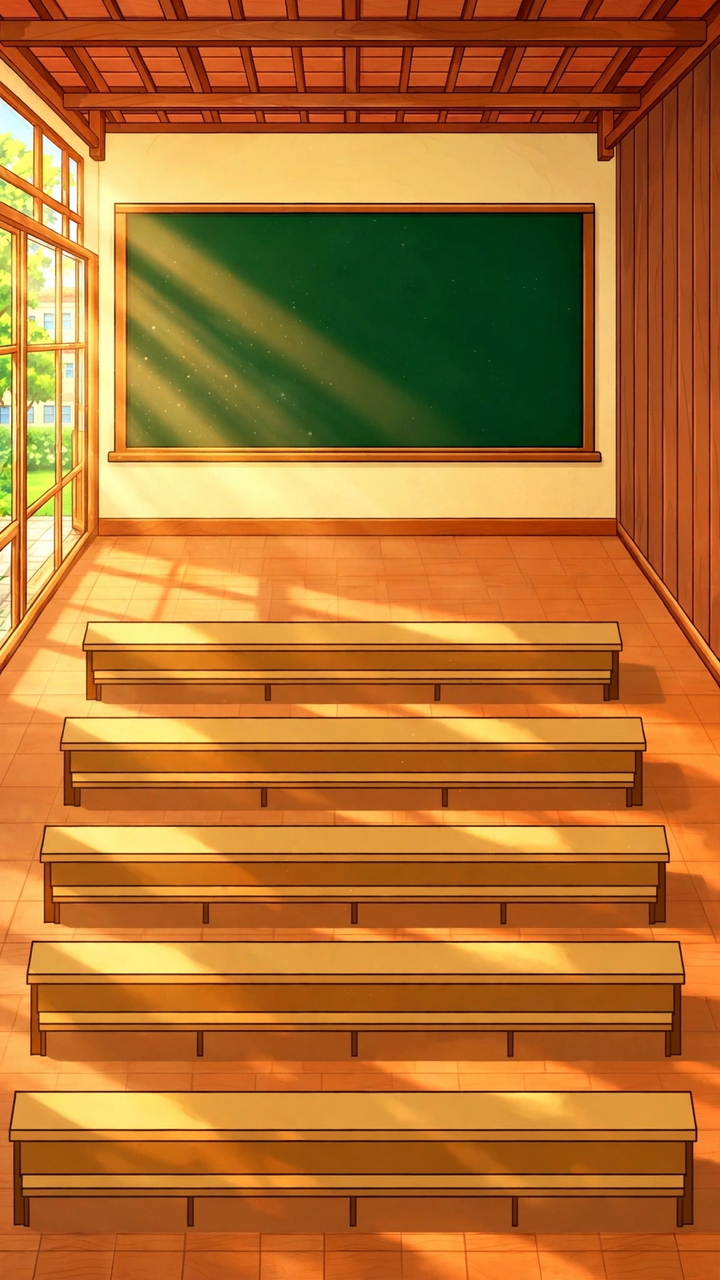
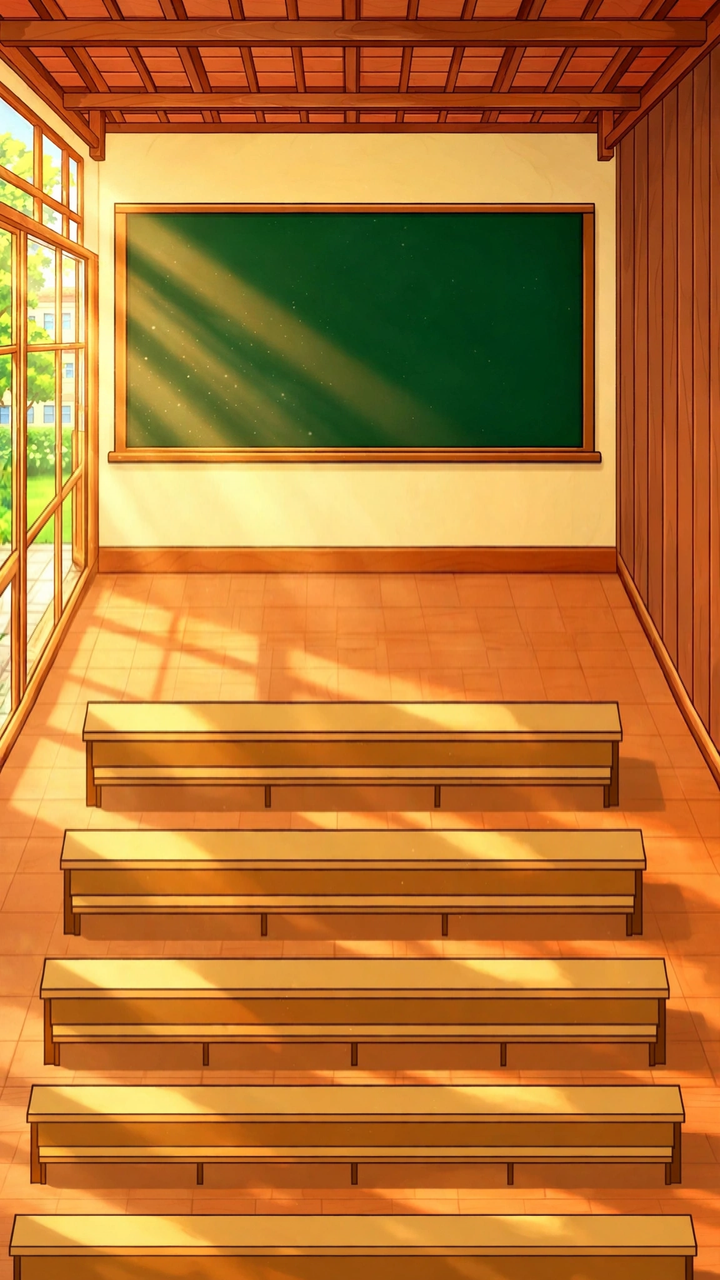
Lop hoc chu (LH-V3): nen v18 doi ban xuong khop anh mau + goi y dai khong bi cat

diff --git a/Games/lop-hoc-chu/index.html b/Games/lop-hoc-chu/index.html
@@ -80,8 +80,11 @@
     font-size: 23px; line-height: 1.25; color: #fff; text-align: center;
     margin-top: 32px; text-shadow: 0 2px 4px rgba(0,0,0,.55);
     /* Bảng v17 rộng hơn (x 12-88%) nên chừa 110px bên trái để câu đố
-       không chạy ra sau đầu cô Ngân (đầu cô tới ~x 31%). */
-    padding: 0 10px 0 110px;
+       không chạy ra sau đầu cô Ngân (đầu cô tới ~x 31%). Chừa thêm
+       70px bên phải: mép phải bảng (x > 565px stage) nằm DƯỚI cột phải,
+       gợi ý dài (> ~33 chữ, 31/120 câu) bị cột phải cắt mất đuôi chữ
+       (vd "Trang phục truyền thống của Việt Nam" mất chữ "m"). */
+    padding: 0 70px 0 110px;
   }
   #qScrambled { text-align: center; margin-top: 12px; }
   .tile {

diff --git a/Games/lop-hoc-chu/BG-LAYOUT.md b/Games/lop-hoc-chu/BG-LAYOUT.md
@@ -1,18 +1,18 @@
-# BG-LAYOUT — Lớp học chữ (v17: nền tia nắng + bảng vẽ sẵn, học sinh mới, tự canh ghế, M5 Oẳn tù tì, motto mới)
+# BG-LAYOUT — Lớp học chữ (v18: nền dời bàn xuống khớp ảnh mẫu, bảng break khớp ảnh, gợi ý dài không bị cắt)
 
 Khung hình: **720 × 1280** (dọc 9:16), gốc tọa độ tính theo % chiều rộng /
 chiều cao của `#stage`. Mọi vị trí dưới đây là % của stage, không phải px,
 để OBS co giãn vẫn đúng.
 
-Nền là **ảnh vẽ kín `img/lop-hoc-bg.png`** (720×1280, bản v17, thay bản v16
-từ 2026-11-06 tối): trần xà gỗ, cửa sổ **trái** có cây xanh + **tia nắng
-vàng xiên vào lớp** (god rays, hạt bụi vàng, vùng sáng ấm trên sàn và mặt
-bàn gần cửa sổ), tường gỗ **phải**, sàn gỗ cam, **bảng xanh lá VẼ SẴN
-trong ảnh** (khung gỗ, x ~12–88%, y ~15,5–32,5%), **5 dải bàn dài
-trống**, không có đèn treo, không còn đám đông đứng 2 bên bảng, không
-có chữ. Các khung chữ game (bảng hiệu, banner, bảng, panel) đè lên đúng
-vị trí đã vẽ trong ảnh nền. CSS gradient dưới ảnh nền chỉ là dự phòng
-nếu ảnh lỗi.
+Nền là **ảnh vẽ kín `img/lop-hoc-bg.png`** (720×1280, bản v18, warp
+dọc từ v17 tối 2026-11-06 — xem Ghi chú v18): trần xà gỗ, cửa sổ
+**trái** có cây xanh + **tia nắng vàng xiên vào lớp** (god rays, hạt
+bụi vàng, vùng sáng ấm trên sàn và mặt bàn gần cửa sổ), tường gỗ
+**phải**, sàn gỗ cam, **bảng xanh lá VẼ SẴN trong ảnh** (khung gỗ,
+x ~12–88%, y ~15,5–32,5%), **5 dải bàn dài trống**, không có đèn treo,
+không còn đám đông đứng 2 bên bảng, không có chữ. Các khung chữ game
+(bảng hiệu, banner, bảng, panel) đè lên đúng vị trí đã vẽ trong ảnh
+nền. CSS gradient dưới ảnh nền chỉ là dự phòng nếu ảnh lỗi.
 
 > Ghi chú v8–v10 (đã thử rồi bỏ): từng vẽ lại nền sảnh trống + ghép bàn
 > (img/desk.png) + ghế (img/chair.png) riêng, 10 bàn 2 cột × 5 hàng.
@@ -28,15 +28,21 @@ nếu ảnh lỗi.
 > `workspace/lop-hoc-chu-polish/src/lop-hoc-bg-v16.png`, bản v15 tại
 > `.../src/lop-hoc-bg-v15.png`.
 >
-> Ghi chú v17 (2026-11-06 tối): user chốt **bỏ vụ cắt mép bàn** (dải
-> mặt bàn `.deskstrip` gây lỗi liên tục: cắt tóc hàng sau, cắt chip tên,
-> cắt bong bóng chat) + **tự canh tọa độ từng học sinh** + làm lại học
-> sinh giống ảnh họ + nền đẹp lên có tia nắng qua cửa sổ + popup giống
-> ảnh họ + bỏ sọc chéo trên bảng. Nền v17 vẽ từ v16 (thêm tia nắng);
-> lần đầu vẽ bảng luôn vào ảnh (v17a) nhưng bảng HTML đè lên thành 2
-> bảng nên vẽ lại v17b — vẫn vẽ bảng vào ảnh nhưng **bảng HTML đổi
-> thành khung trong suốt** đè đúng khung bảng vẽ. Đỉnh bàn dịch lên
-> 0,3–1% so với v16 (đo lại từ ảnh v17).
+> Ghi chú v18 (2026-11-06 tối, LH-V3 bổ sung — BOSS chốt dời bàn
+> xuống khớp ảnh mẫu): đỉnh bàn v17 cao hơn ảnh mẫu (48,7/56,2/64,6/
+> 73,7% vs ảnh ~55/65/75/85%) nên hàng 1 nấp sau chân cô + trống dưới
+> hàng 4. Nền v18 KHÔNG vẽ lại từ đầu (giữ nguyên bảng vẽ, tia nắng,
+> tường, cửa sổ): warp dọc ảnh v17 (ánh xạ từng hàng, nội suy tuyến
+> tính, làm tròn bằng numpy — xem `workspace/multi-session/lh-v3-demo/`
+> để xem lại nếu cần): giữ nguyên y < 460px, đỉnh bàn 623→704,
+> 719→832, 827→960, 944→1088, 1093→1216, đáy ảnh 1280→1370 rồi cắt
+> về 720×1280. Kết quả: đỉnh bàn **55 / 65 / 75 / 85 / 95%**, bảng
+> không đổi 1px, tia nắng không gãy khúc thấy được. Bản v17 lưu tại
+> `workspace/lop-hoc-chu-polish/src/lop-hoc-bg-v17.png`. **SEATS trong
+> `js/people.js` vẫn là số cũ (y 48,7/56,2/64,6/73,7) — chờ nv2 đo lại
+> theo đỉnh bàn v18 (gợi ý w nội suy từ thang nv2 v18: 75/86/97/109,
+> chipY = y+0,3); demo kiểm chứng đã chỉnh tạm qua `setSeat` (không
+> commit) nên ảnh demo khớp, code thật còn chờ nv2.
 
 ## Bố cục tổng thể (đối chiếu ảnh Giờ ra chơi thứ 2 user gửi 2026-11-06)
 
@@ -44,7 +50,7 @@ nếu ảnh lỗi.
 |---|---|---|
 | Bảng hiệu `#classSign` | left 30, top 0.8, w 40 | Trắng viền nâu: `LỚP HỌC CHỮ` + `Tiết {tiết} · Câu {câu}/20 · {views} bạn` (renderSign) |
 | Banner khẩu hiệu `#mottoBar` | left 2, top 6.8, w 96 | Đỏ/vàng `TIÊN HỌC LỄ – HẬU HỌC VĂN` (v16b, user chốt 2026-11-06 tối — bỏ câu cũ `NGHE HẾT ĐỀ – GÕ MỚI ĂN ĐIỂM` vì đề hiện là tính giờ luôn, câu đó sai luật). Chữ LỄ không có chấm dưới — chấm user thấy là của chữ Ọ trong HỌC (đã tra 2026-11-06 tối, chữ đúng chuẩn) |
-| Bảng xanh lá `#board` | left 12, top 15.5, w 76, h 17 | **KHUNG TRONG SUỐT** (v17): nền/border/shadow bỏ hết, chữ đè trực tiếp lên bảng vẽ sẵn trong ảnh nền (khung gỗ x ~12–88%, y ~15,5–32,5%). Chữ phấn trắng thêm bóng đậm (`text-shadow: 0 2px 4px rgba(0,0,0,.55)`) để đọc được trên tia nắng; `#qHint` chừa `padding-left: 110px` cho đầu cô Ngân; ô chữ/vạch đáp án/đáp án vàng như cũ. **Sọc chéo trên bảng đã bỏ** (v17, user chốt — nhìn lâu đau mắt) |
+| Bảng xanh lá `#board` | left 12, top 15.5, w 76, h 17 | **KHUNG TRONG SUỐT** (v17): nền/border/shadow bỏ hết, chữ đè trực tiếp lên bảng vẽ sẵn trong ảnh nền (khung gỗ x ~12–88%, y ~15,5–32,5%). Chữ phấn trắng thêm bóng đậm (`text-shadow: 0 2px 4px rgba(0,0,0,.55)`) để đọc được trên tia nắng; `#qHint` chừa `padding-left: 110px` cho đầu cô Ngân + `padding-right: 70px` (v18: mép phải bảng nằm dưới cột phải từ x 565px, gợi ý dài bị cắt đuôi — giờ gợi ý dài tự xuống 2 dòng, mép phải tối đa 540px); ô chữ/vạch đáp án/đáp án vàng như cũ. **Sọc chéo trên bảng đã bỏ** (v17, user chốt — nhìn lâu đau mắt). **Bảng break (v18, LH-V3):** tiêu đề phấn "Oẳn tù tì với cô" giữa bảng, búa/kéo/bao chữ phấn trơn (không hộp kem), "Cô ra" ở dòng cuối, dòng thắng vừa trong bảng; pill chủ đề + vòng số câu ẩn ở màn break |
 | Thanh thời gian `#timerBarWrap` | left 12, top 36.8, w 76, h 8px | Vàng-cam, co dần theo thời gian còn lại của giai đoạn (v17: rộng theo bảng mới) |
 | Panel Nhanh nhất `#fastestPanel` | left 12, top 38.5, w 76 | Ngay dưới bảng: header nâu `⚡ Nhanh nhất` + `N bạn đã đúng`, 3 cột avatar mặt trước + tên + thời gian (lúc công bố hiện +điểm) |
 | Banner luật chơi `#guideBar` | left 14, bottom 9.5, w 72 | Đỏ/vàng, xoay mỗi 8s; ở dưới cùng, trên dải chat/sổ quà |
@@ -64,11 +70,14 @@ nếu ảnh lỗi.
 
 ## Ghế ngồi = thứ hạng điểm (20 ghế: 4 hàng × 5)
 
-Tọa độ đo từ ảnh nền **v17** bằng xử lý ảnh (màu bàn gỗ vàng nhạt):
-- Dải bàn trong nền (đỉnh mỗi dải): y **48,7 / 56,2 / 64,6 / 73,7 / 85,4**
-  (dịch lên 0,3–1% so với v16 do vẽ lại). Dùng 4 dải làm ghế:
-  **48,7 / 56,2 / 64,6 / 73,7**. Dải 85,4% (bàn trống sát đáy, như ảnh
+Tọa độ đo từ ảnh nền **v18** (warp dọc từ v17, xem Ghi chú v18 ở đầu file):
+- Dải bàn trong nền (đỉnh mỗi dải): y **55 / 65 / 75 / 85 / 95**
+  (v17 là 48,7 / 56,2 / 64,6 / 73,7 / 85,4). Dùng 4 dải làm ghế:
+  **55 / 65 / 75 / 85**. Dải 95% (bàn trống sát đáy, như ảnh
   họ) để trống — dải chat + banner luật che mất chip tên nếu ngồi đó.
+  ⚠ **SEATS trong `js/people.js` CHƯA cập nhật theo v18 (vẫn y cũ) —
+  chờ nv2 đo lại (LH-V2). Bảng dưới là số CŨ, chỉ để tham khảo cấu
+  trúc, KHÔNG dùng để đối chiếu nữa.**
 - **Tâm bàn:** bàn vẽ là dải dài liền mạch, không chia cột, nên 5 cột
   chia đều x 10/30/50/70/90 (v16b, user chốt 2026-11-06 tối — 1 dãy
   ghế 5 hs; ảnh họ ngồi 7/hàng nhưng user chốt 5).
